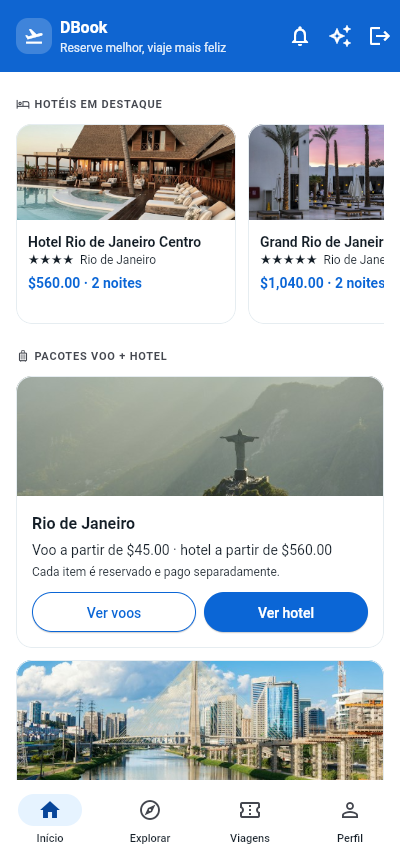
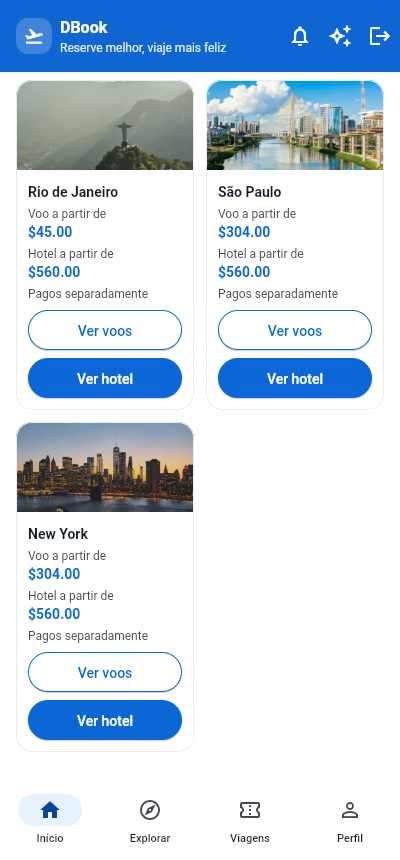
Pacotes voo + hotel em grade de 2 por linha, com cartões compactos

diff --git a/apps/dbook_mobile/lib/home_stays_section.dart b/apps/dbook_mobile/lib/home_stays_section.dart
@@ -92,12 +92,30 @@ class HomeStaysSection extends ConsumerWidget {
             icon: Icons.luggage_outlined,
           ),
           const SizedBox(height: DbookSpacing.md),
-          for (final item in packages) ...[
-            _PackageCard(
-              destination: item.destination,
-              stay: item.stay,
-              onFlights: () => onSearchFlights(item.destination),
-              onHotel: () => _openHotel(context, item.stay),
+          // Grade de 2 por linha; `IntrinsicHeight` iguala a altura dos dois
+          // cartões da linha, sem número fixo que estoure com fonte maior.
+          for (var i = 0; i < packages.length; i += 2) ...[
+            IntrinsicHeight(
+              child: Row(
+                crossAxisAlignment: CrossAxisAlignment.stretch,
+                children: [
+                  for (var j = i; j < i + 2; j++) ...[
+                    if (j > i) const SizedBox(width: DbookSpacing.md),
+                    Expanded(
+                      child: j < packages.length
+                          ? _PackageCard(
+                              destination: packages[j].destination,
+                              stay: packages[j].stay,
+                              onFlights: () =>
+                                  onSearchFlights(packages[j].destination),
+                              onHotel: () =>
+                                  _openHotel(context, packages[j].stay),
+                            )
+                          : const SizedBox.shrink(),
+                    ),
+                  ],
+                ],
+              ),
             ),
             const SizedBox(height: DbookSpacing.md),
           ],
@@ -191,13 +209,16 @@ class _PackageCard extends StatelessWidget {
     final theme = Theme.of(context);
     final brand = theme.extension<DbookBrandColors>()!;
     final hotelFrom = stay.hotel.fromPrice;
+    final muted = theme.textTheme.bodySmall?.copyWith(
+      color: theme.colorScheme.onSurfaceVariant,
+    );
     return Card(
       clipBehavior: Clip.antiAlias,
       child: Column(
         crossAxisAlignment: CrossAxisAlignment.stretch,
         children: [
           SizedBox(
-            height: 120,
+            height: 90,
             child: DbookPhoto(
               url: destination.photoUrl,
               icon: Icons.landscape_outlined,
@@ -205,49 +226,55 @@ class _PackageCard extends StatelessWidget {
             ),
           ),
           Padding(
-            padding: const EdgeInsets.all(DbookSpacing.lg),
+            padding: const EdgeInsets.all(DbookSpacing.md),
             child: Column(
               crossAxisAlignment: CrossAxisAlignment.start,
               children: [
-                Text(destination.city, style: theme.textTheme.titleMedium),
-                const SizedBox(height: DbookSpacing.xs),
                 Text(
-                  'Voo a partir de ${_price.format(destination.lowestPrice)}'
-                  '${hotelFrom == null ? '' : ' · hotel a partir de ${_price.format(hotelFrom)}'}',
-                  style: theme.textTheme.bodyMedium,
+                  destination.city,
+                  style: theme.textTheme.titleSmall,
+                  maxLines: 1,
+                  overflow: TextOverflow.ellipsis,
                 ),
                 const SizedBox(height: DbookSpacing.xs),
+                Text('Voo a partir de', style: muted),
                 Text(
-                  'Cada item é reservado e pago separadamente.',
-                  style: theme.textTheme.bodySmall,
+                  _price.format(destination.lowestPrice),
+                  style: theme.textTheme.titleSmall?.copyWith(
+                    color: theme.colorScheme.primary,
+                  ),
                 ),
-                const SizedBox(height: DbookSpacing.md),
-                Row(
-                  children: [
-                    Expanded(
-                      // Branco com o azul da marca, o mesmo par do seletor
-                      // Voos | Hotéis: no tema escuro o contorno azul sumia.
-                      child: ElevatedButton(
-                        style: ElevatedButton.styleFrom(
-                          backgroundColor: brand.onSurface,
-                          foregroundColor: brand.surface,
-                          side: BorderSide(color: brand.surface),
-                          minimumSize: const Size.fromHeight(
-                            DbookSizes.controlHeight,
-                          ),
-                        ),
-                        onPressed: onFlights,
-                        child: const Text('Ver voos'),
-                      ),
+                if (hotelFrom != null) ...[
+                  const SizedBox(height: DbookSpacing.xs),
+                  Text('Hotel a partir de', style: muted),
+                  Text(
+                    _price.format(hotelFrom),
+                    style: theme.textTheme.titleSmall?.copyWith(
+                      color: theme.colorScheme.primary,
                     ),
-                    const SizedBox(width: DbookSpacing.sm),
-                    Expanded(
-                      child: DbookButton(
-                        label: 'Ver hotel',
-                        onPressed: onHotel,
-                      ),
+                  ),
+                ],
+                const SizedBox(height: DbookSpacing.xs),
+                Text('Pagos separadamente', style: muted),
+                const SizedBox(height: DbookSpacing.sm),
+                // Branco com o azul da marca, o mesmo par do seletor
+                // Voos | Hotéis: no tema escuro o contorno azul sumia.
+                ElevatedButton(
+                  style: ElevatedButton.styleFrom(
+                    backgroundColor: brand.onSurface,
+                    foregroundColor: brand.surface,
+                    side: BorderSide(color: brand.surface),
+                    minimumSize: const Size.fromHeight(
+                      DbookSizes.controlHeight,
                     ),
-                  ],
+                  ),
+                  onPressed: onFlights,
+                  child: const Text('Ver voos'),
+                ),
+                const SizedBox(height: DbookSpacing.sm),
+                SizedBox(
+                  width: double.infinity,
+                  child: DbookButton(label: 'Ver hotel', onPressed: onHotel),
                 ),
               ],
             ),

diff --git a/apps/dbook_mobile/test/home_stays_section_test.dart b/apps/dbook_mobile/test/home_stays_section_test.dart
@@ -7,7 +7,9 @@ import 'package:flutter_riverpod/flutter_riverpod.dart';
 import 'package:flutter_test/flutter_test.dart';
 
 class _Accommodations implements AccommodationRepository {
-  _Accommodations(this.results);
+  _Accommodations(this.results, {this.everywhere = false});
+
+  final bool everywhere;
 
   final List<AccommodationResult> results;
   final searched = <String>[];
@@ -15,7 +17,7 @@ class _Accommodations implements AccommodationRepository {
   @override
   Future<List<AccommodationResult>> search(StaySearch search) async {
     searched.add(search.destination);
-    return search.destination == 'LIS' ? results : const [];
+    return everywhere || search.destination == 'LIS' ? results : const [];
   }
 
   @override
@@ -97,7 +99,8 @@ void main() {
     expect(find.text('HOTÉIS EM DESTAQUE'), findsOneWidget);
     expect(find.text('Hotel Alfama'), findsOneWidget);
     expect(find.text('PACOTES VOO + HOTEL'), findsOneWidget);
-    expect(find.textContaining('Voo a partir de'), findsOneWidget);
+    expect(find.text('Voo a partir de'), findsOneWidget);
+    expect(find.text('Hotel a partir de'), findsOneWidget);
     expect(fake.searched, ['LIS']);
   });
 
@@ -137,5 +140,49 @@ void main() {
     await tester.pumpAndSettle();
 
     expect(find.text('HOTÉIS EM DESTAQUE'), findsNothing);
+  });
+
+  testWidgets('given three packages when built then the grid has two per row '
+      'and the third goes below', (tester) async {
+    const rio = Destination(
+      iataCode: 'GIG',
+      city: 'Rio de Janeiro',
+      country: 'Brasil',
+      photoUrl: '',
+      region: 'América do Sul',
+      isPopular: true,
+      lowestPrice: 400,
+    );
+    const sampa = Destination(
+      iataCode: 'GRU',
+      city: 'São Paulo',
+      country: 'Brasil',
+      photoUrl: '',
+      region: 'América do Sul',
+      isPopular: true,
+      lowestPrice: 300,
+    );
+    await tester.pumpWidget(
+      _section(_Accommodations(const [_hotel], everywhere: true), const [
+        _lisbon,
+        rio,
+        sampa,
+      ]),
+    );
+    await tester.pumpAndSettle();
+
+    final tops = [
+      for (final city in ['Lisboa', 'Rio de Janeiro', 'São Paulo'])
+        tester.getTopLeft(find.text(city).last).dy,
+    ];
+    final lefts = [
+      for (final city in ['Lisboa', 'Rio de Janeiro', 'São Paulo'])
+        tester.getTopLeft(find.text(city).last).dx,
+    ];
+
+    expect(tops[0], tops[1]);
+    expect(tops[2], greaterThan(tops[0]));
+    expect(lefts[1], greaterThan(lefts[0]));
+    expect(lefts[2], lefts[0]);
   });
 }

diff --git a/docs/screenshots/README.md b/docs/screenshots/README.md
@@ -9,7 +9,7 @@ Capturas do app (web, 400 × 860) contra a API real (`dbook`, com os seeds `seed
 | 03 | Resultados de voo | logo de cada companhia, horários, classe e preço |
 | 04 | Detalhe do voo | logo, aeronave, assentos livres em tempo real, histórico de preço, alerta |
 | 05 | Home, aba Hotéis | o mesmo cartão de busca do voo (destino, entrada, saída, hóspedes) |
-| 06 | Vitrine de hotéis e pacotes | carrossel com foto do hotel e pacotes voo + hotel com foto da cidade |
+| 06 | Vitrine de hotéis e pacotes | carrossel com foto do hotel e grade de pacotes voo + hotel, 2 por linha, com foto da cidade |
 | 07 | Perfil | foto, "membro desde", resumo, preferências, conta, dispositivos |
 | 08 | Preferências de viagem | aeroporto de origem, classe, assento, moeda e idioma (guardados no servidor) |
 | 09 | Home com a origem das preferências | origem já preenchida pela conta |
